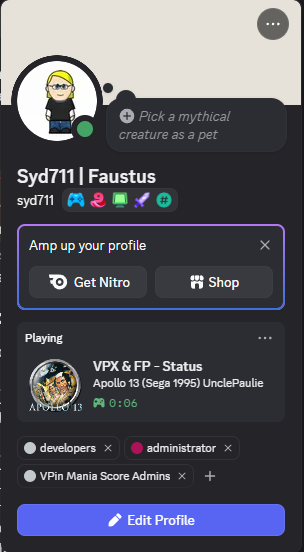
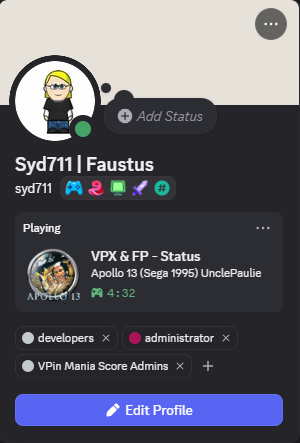
Discord Status

diff --git a/vpin-studio-server/src/main/java/de/mephisto/vpin/server/discord/DiscordClientService.java b/vpin-studio-server/src/main/java/de/mephisto/vpin/server/discord/DiscordClientService.java
@@ -5,6 +5,7 @@ import de.mephisto.vpin.restclient.discord.DiscordClientSettings;
 import de.mephisto.vpin.restclient.discord.DiscordClientStatus;
 import de.mephisto.vpin.restclient.util.OSUtil;
 import de.mephisto.vpin.restclient.util.SystemCommandExecutor;
+import de.mephisto.vpin.server.frontend.FrontendStatusChangeListener;
 import de.mephisto.vpin.server.frontend.FrontendStatusService;
 import de.mephisto.vpin.server.frontend.TableStatusChangeListener;
 import de.mephisto.vpin.server.games.Game;
@@ -36,7 +37,7 @@ import java.util.concurrent.Executors;
  * and publishes the active table as Discord rich presence.
  */
 @Service
-public class DiscordClientService implements InitializingBean, PreferenceChangedListener, TableStatusChangeListener {
+public class DiscordClientService implements InitializingBean, PreferenceChangedListener, TableStatusChangeListener, FrontendStatusChangeListener {
   private final static Logger LOG = LoggerFactory.getLogger(DiscordClientService.class);
 
   /**
@@ -267,6 +268,24 @@ public class DiscordClientService implements InitializingBean, PreferenceChanged
     updateRichPresence(null);
   }
 
+  //-------------------- FrontendStatusChangeListener ------------------------------------------------------------------
+
+  @Override
+  public void frontendLaunched() {
+    //ignore
+  }
+
+  @Override
+  public void frontendExited() {
+    // no table exit event is fired when the frontend is killed
+    updateRichPresence(null);
+  }
+
+  @Override
+  public void frontendRestarted() {
+    updateRichPresence(null);
+  }
+
   //-------------------- PreferenceChangedListener ---------------------------------------------------------------------
 
   @Override
@@ -291,6 +310,7 @@ public class DiscordClientService implements InitializingBean, PreferenceChanged
       preferencesService.addChangeListener(this);
       preferenceChanged(PreferenceNames.DISCORD_CLIENT_SETTINGS, null, null);
       frontendStatusService.addTableStatusChangeListener(this);
+      frontendStatusService.addFrontendStatusChangeListener(this);
 
       if (settings.isLaunchOnStartup()) {
         if (!OSUtil.isWindows()) {

diff --git a/RELEASE_NOTES.md b/RELEASE_NOTES.md
@@ -3,7 +3,7 @@
 ### Changes
 
 - **Discord Client Settings**: Added the new preferences page "Discord Client Settings" to the "Discord Integration" section. It shows whether the Discord desktop client is installed on the cabinet. Discord can be launched minimized together with the VPin Studio Server, and the table that is currently played can be shown as your Discord status, including the VPin Mania wheel icon of the table. Both options require the Discord desktop client to be installed on the cabinet.##  
-    <img src="https://github.com/syd711/vpin-studio/blob/main/documentation/release-notes/discord-status.png?raw=true" width="400" />
+    <img src="https://github.com/syd711/vpin-studio/blob/main/documentation/release-notes/discord-status.png?raw=true" width="200" />
 
 - **Highscore Backups**: The backups in the highscore backup dialog are now sorted by date, newest first.
 - **Bulk Importer**: Added the import mode "If Missing", which only imports a file if its screen has no media yet.
